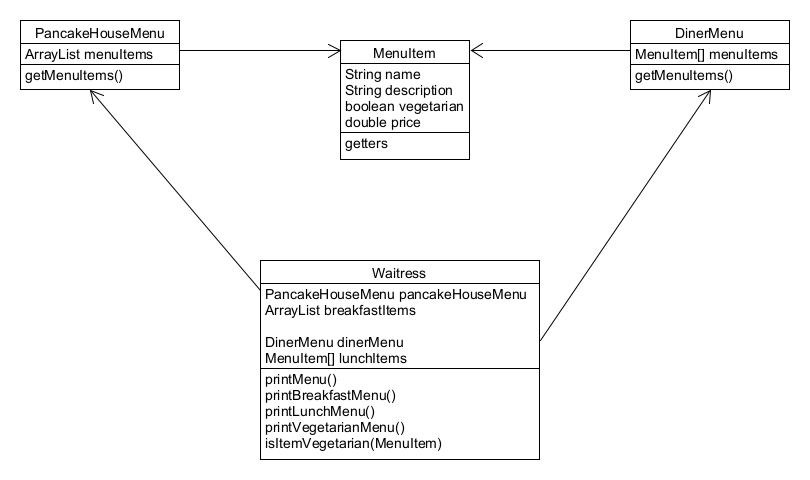
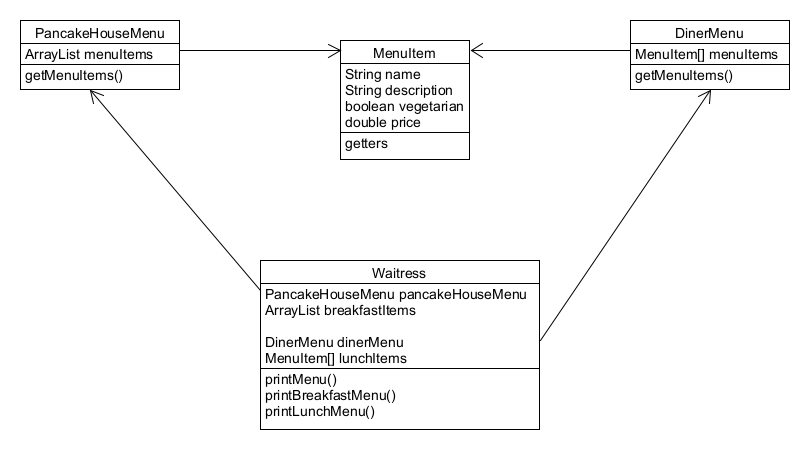
upload IteratorPattern.Problem

diff --git a/IteratorPattern/Problem/Waitress.java b/IteratorPattern/Problem/Waitress.java
@@ -39,28 +39,4 @@ public class Waitress {
             System.out.println(menuItem.getDescription());
         }
     }
-
-    public void printVegetarianMenu() {
-        for(int i=0; i<breakfastItems.size(); i++) {
-            MenuItem menuItem = (MenuItem) breakfastItems.get(i);
-            if (isItemVegetarian(menuItem)) {
-                System.out.println(menuItem.getName() + " $"
-                        + menuItem.getPrice());
-                System.out.println(menuItem.getDescription());
-            }
-        }
-
-        for(int i=0; i<lunchItems.length; i++) {
-            MenuItem menuItem = lunchItems[i];
-            if (isItemVegetarian(menuItem)) {
-                System.out.println(menuItem.getName() + " $"
-                        + menuItem.getPrice());
-                System.out.println(menuItem.getDescription());
-            }
-        }
-    }
-
-    public boolean isItemVegetarian(MenuItem menuItem) {
-        return menuItem.isVegetarian();
-    }
 }
